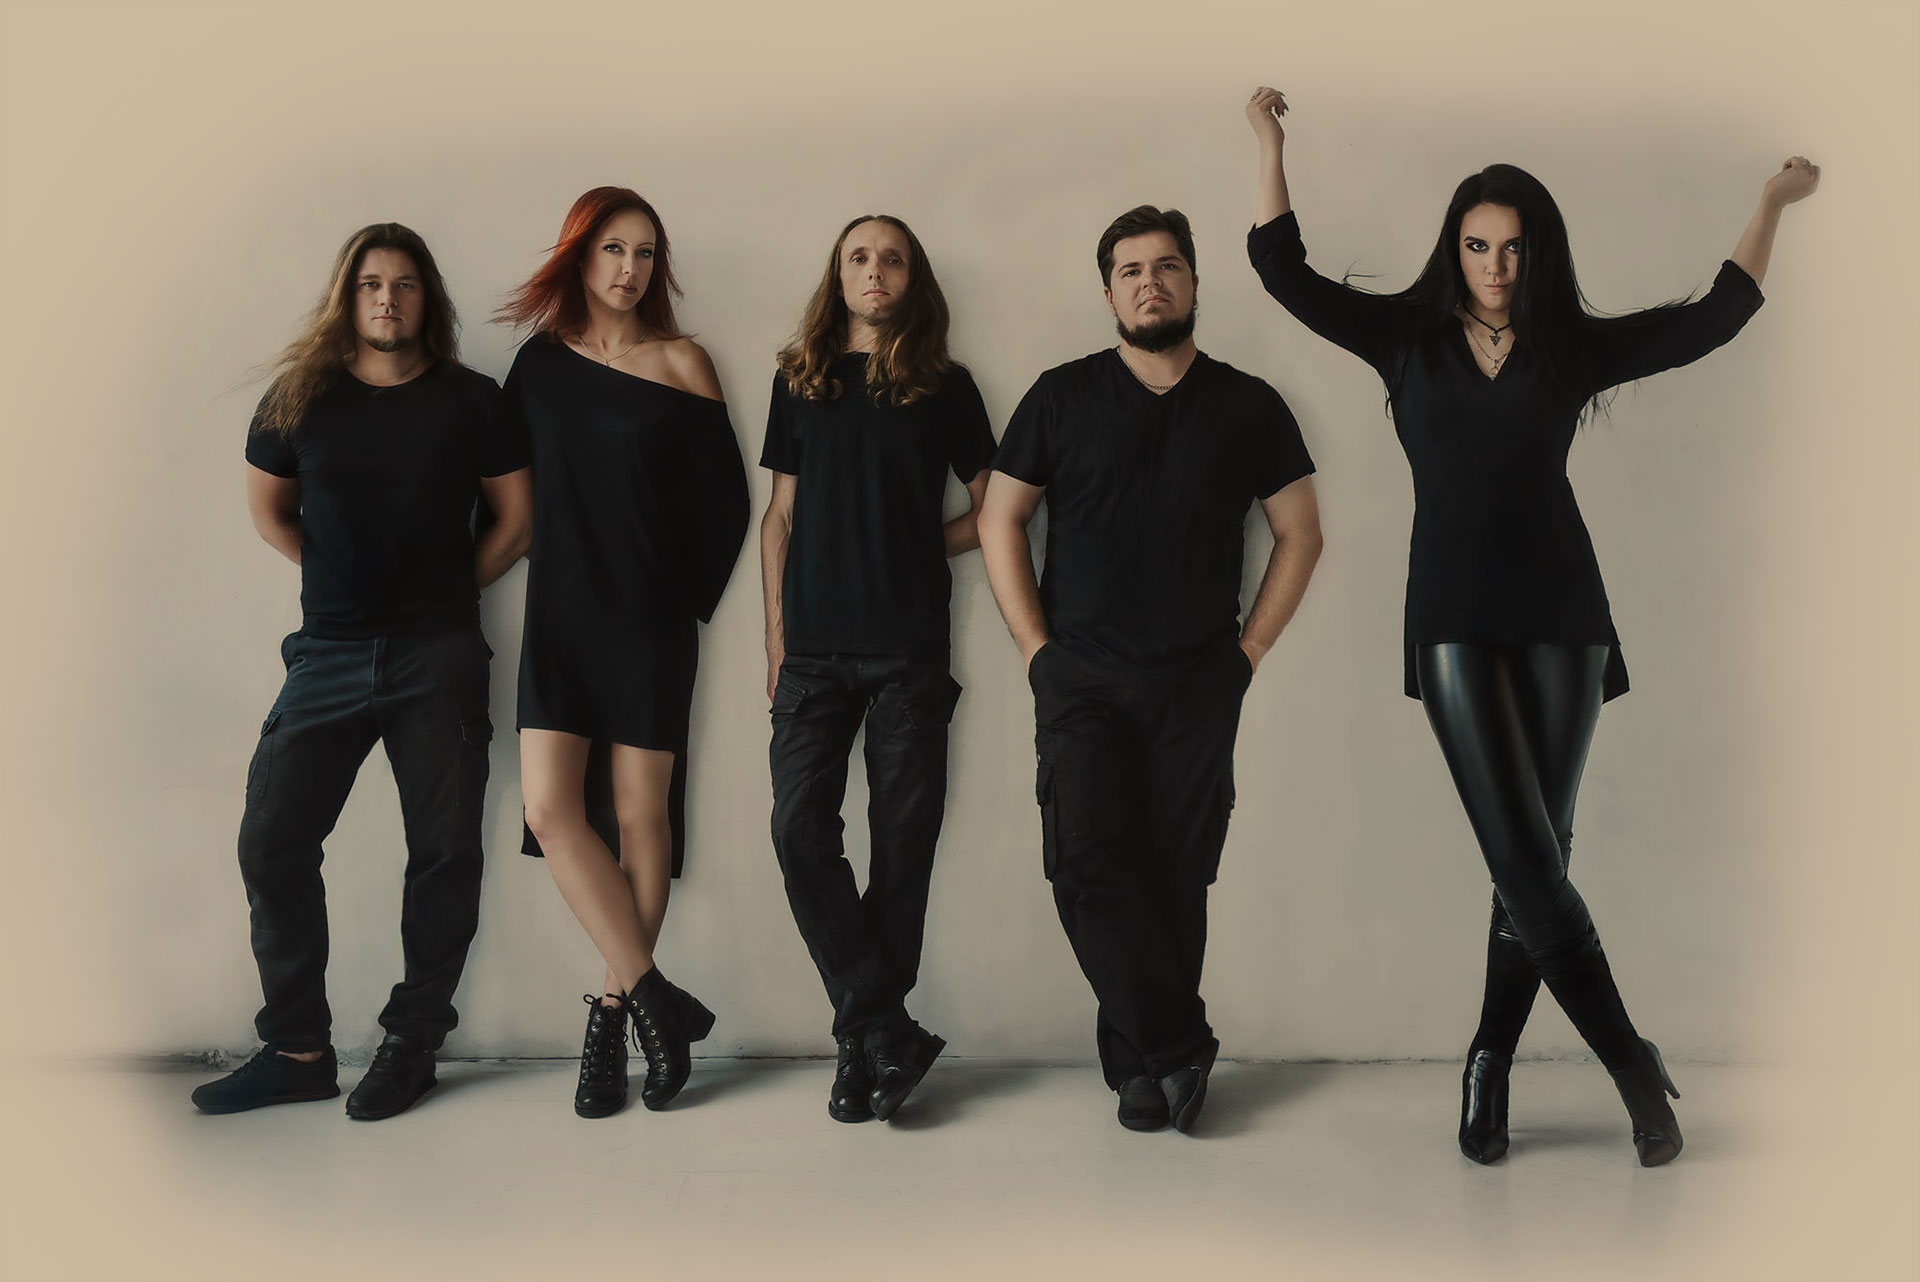
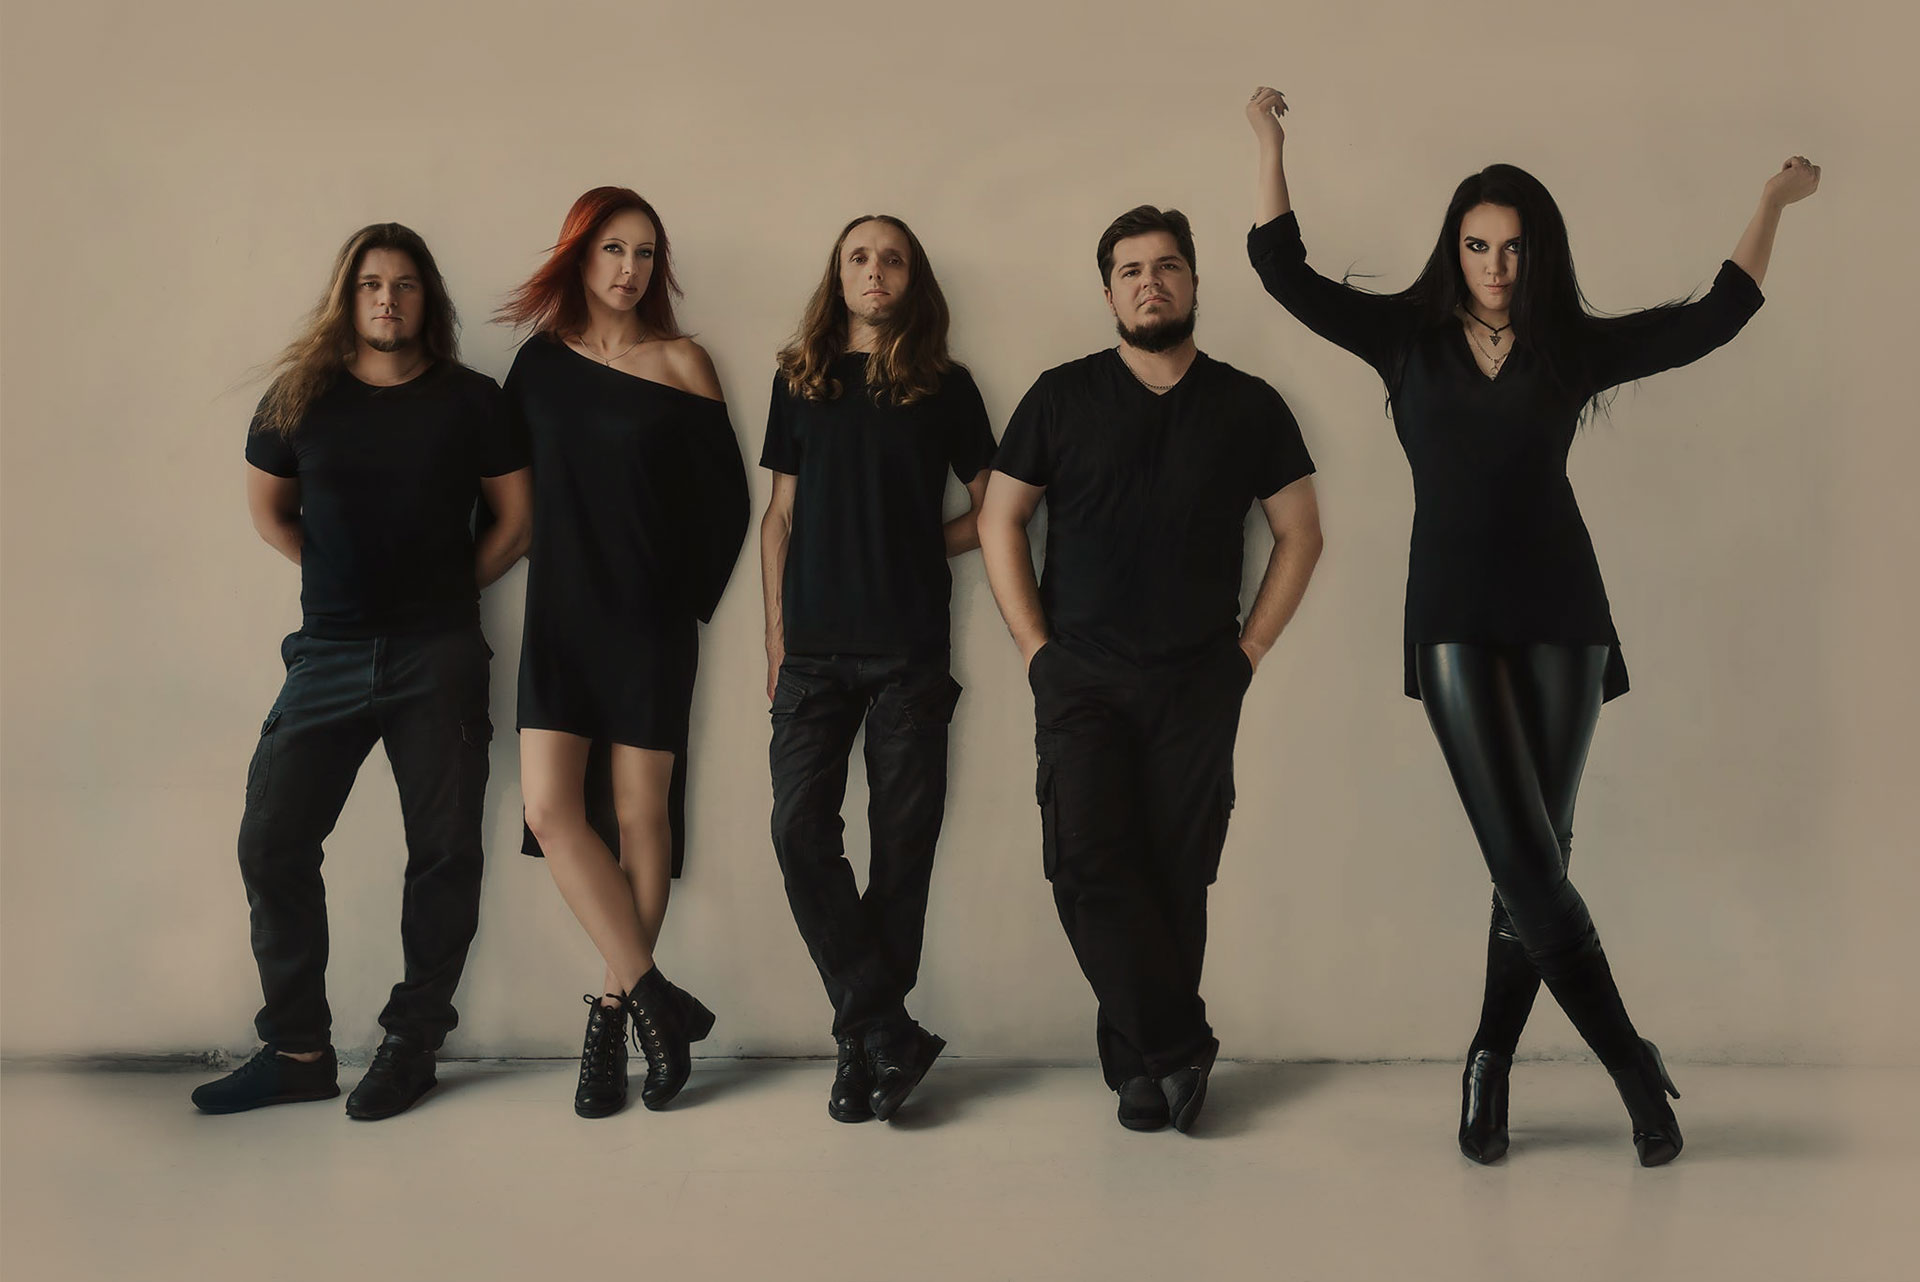
ffff

Changed region(s): [[0.0, 0.0, 1.0, 1.0]]

diff --git a/scss/main.scss b/scss/main.scss
@@ -206,7 +206,7 @@ h2 {
 }
 
 .tour {
-    background: #cbb79e;
+    background: #a8957f;
     background-image: url('../img/band.jpg');
     background-size: cover;
     background-position: top;
@@ -336,7 +336,7 @@ h2 {
     }
 
     .tour {
-        background: #ad9f8e;
+        background: #a8957f;
         background-image: url('../img/band.jpg');
         background-repeat: no-repeat;
         background-size: contain;
@@ -403,7 +403,7 @@ h2 {
     }
 
     .tour {
-        background: #ad9f8e;
+        background: #a8957f;
         background-image: url('../img/band.jpg');
         background-repeat: no-repeat;
         background-size: contain;

diff --git a/scss/main.css b/scss/main.css
@@ -211,7 +211,7 @@ h2 {
 }
 
 .tour {
-  background: #cbb79e;
+  background: #a8957f;
   background-image: url("../img/band.jpg");
   background-size: cover;
   background-position: top;
@@ -332,7 +332,7 @@ h2 {
     line-height: 3em;
   }
   .tour {
-    background: #ad9f8e;
+    background: #a8957f;
     background-image: url("../img/band.jpg");
     background-repeat: no-repeat;
     background-size: contain;
@@ -385,7 +385,7 @@ h2 {
     line-height: 3em;
   }
   .tour {
-    background: #ad9f8e;
+    background: #a8957f;
     background-image: url("../img/band.jpg");
     background-repeat: no-repeat;
     background-size: contain;
